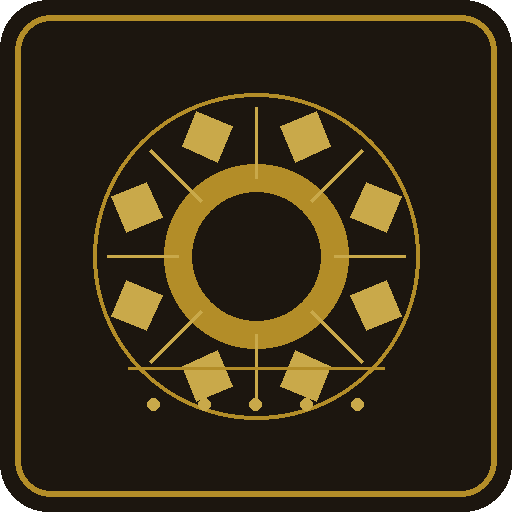
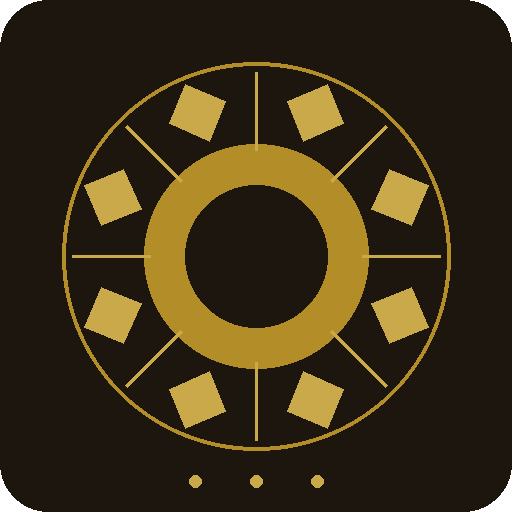
Add files via upload

diff --git a/index.html b/index.html
@@ -22,8 +22,8 @@
   --r:16px;
 }
 *{box-sizing:border-box;margin:0;padding:0;-webkit-tap-highlight-color:transparent;}
-html{font-size:16px;-webkit-text-size-adjust:100%;text-size-adjust:100%;}
-body{font-family:'Noto Sans TC',sans-serif;background:var(--paper-d);color:var(--ink);max-width:600px;margin:0 auto;font-size:16px;}
+html{font-size:14px;-webkit-text-size-adjust:100%;text-size-adjust:100%;}
+body{font-family:'Noto Sans TC',sans-serif;background:var(--paper-d);color:var(--ink);max-width:600px;margin:0 auto;font-size:14px;}
 
 .app{width:100%;background:var(--paper);}
 .page{display:none;}
@@ -38,7 +38,7 @@ body{font-family:'Noto Sans TC',sans-serif;background:var(--paper-d);color:var(-
 /* HEADER */
 .app-header{flex-shrink:0;background:var(--ink);padding:16px 18px 14px;border-bottom:3px solid var(--gold);}
 .header-row{display:flex;justify-content:space-between;align-items:center;}
-.app-title{font-family:'Noto Serif TC',serif;color:var(--gold-l);font-size:20px;letter-spacing:3px;font-weight:700;text-shadow:0.5px 0.5px 0 rgba(255,255,255,.2);}
+.app-title{font-family:'Noto Serif TC',serif;color:var(--gold-l);font-size:17px;letter-spacing:3px;font-weight:700;text-shadow:0.5px 0.5px 0 rgba(255,255,255,.2);}
 .week-chip{background:var(--gold);color:#fff;font-size:13px;font-weight:600;padding:5px 14px;border-radius:20px;letter-spacing:1px;}
 
 /* MILESTONE */
@@ -64,7 +64,7 @@ body{font-family:'Noto Sans TC',sans-serif;background:var(--paper-d);color:var(-
 .stats-title{font-family:'Noto Serif TC',serif;font-size:13px;letter-spacing:3px;color:var(--ink-l);text-align:center;margin-bottom:14px;font-weight:600;}
 .group-ring-wrap{position:relative;width:130px;height:130px;margin:0 auto;}
 .group-ring-center{position:absolute;inset:0;display:flex;flex-direction:column;align-items:center;justify-content:center;gap:3px;}
-.group-ring-pct{font-family:'Noto Serif TC',serif;font-size:32px;font-weight:700;color:var(--gold);line-height:1;transition:color .5s;}
+.group-ring-pct{font-family:'Noto Serif TC',serif;font-size:26px;font-weight:700;color:var(--gold);line-height:1;transition:color .5s;}
 .group-ring-pct.high{color:var(--green);}
 .group-ring-lbl{font-size:12px;color:var(--ink-l);letter-spacing:1px;font-weight:500;}
 
@@ -81,7 +81,7 @@ body{font-family:'Noto Sans TC',sans-serif;background:var(--paper-d);color:var(-
 .wall-quote::before{
   content:'"';
   font-family:'Noto Serif TC',serif;
-  font-size:50px;
+  font-size:40px;
   color:var(--gold-l);
   opacity:.3;
   position:absolute;
@@ -121,7 +121,7 @@ body{font-family:'Noto Sans TC',sans-serif;background:var(--paper-d);color:var(-
 .mem-wpct{font-size:13px;font-weight:700;color:var(--gold);min-width:38px;text-align:right;}
 .mem-wpct.wdone{color:var(--green);}
 .mem-right{text-align:right;min-width:80px;padding-left:12px;border-left:2px solid var(--border);}
-.mem-pct{font-family:'Noto Serif TC',serif;font-size:28px;font-weight:700;color:var(--gold);line-height:1;}
+.mem-pct{font-family:'Noto Serif TC',serif;font-size:22px;font-weight:700;color:var(--gold);line-height:1;}
 .mem-pct.high{color:var(--green);}
 .mem-plbl{font-size:12px;color:var(--ink-l);margin-top:3px;font-weight:500;}
 .mem-arr{font-size:13px;color:var(--ink-l);margin-top:3px;}
@@ -136,7 +136,7 @@ body{font-family:'Noto Sans TC',sans-serif;background:var(--paper-d);color:var(-
 .detail-nm{font-family:'Noto Serif TC',serif;font-size:20px;letter-spacing:2px;font-weight:700;}
 .detail-dh{font-size:14px;color:var(--ink-l);margin-top:3px;font-weight:500;}
 .detail-pcts{margin-left:auto;text-align:right;}
-.detail-cpct{font-family:'Noto Serif TC',serif;font-size:28px;font-weight:700;color:var(--gold);}
+.detail-cpct{font-family:'Noto Serif TC',serif;font-size:22px;font-weight:700;color:var(--gold);}
 .detail-cpct.high{color:var(--green);}
 .detail-clbl{font-size:12px;color:var(--ink-l);font-weight:500;}
 .detail-wrow{margin-top:4px;display:flex;align-items:center;gap:6px;justify-content:flex-end;}
@@ -213,7 +213,7 @@ body{font-family:'Noto Sans TC',sans-serif;background:var(--paper-d);color:var(-
 .step-btn:active{background:var(--gold-p);border-color:var(--gold);transform:scale(.94);}
 .step-btn:disabled{opacity:.2;cursor:not-allowed;}
 .step-display{flex:1;text-align:center;display:flex;flex-direction:column;align-items:center;gap:2px;}
-.step-num{font-family:'Noto Sans TC',sans-serif;font-size:52px;font-weight:700;color:var(--border);line-height:1;transition:color .2s;letter-spacing:-1px;}
+.step-num{font-family:'Noto Sans TC',sans-serif;font-size:42px;font-weight:700;color:var(--border);line-height:1;transition:color .2s;letter-spacing:-1px;}
 .step-num.has{color:var(--ink);}
 .step-num.done{color:var(--green);}
 .step-unit{font-size:13px;color:var(--ink-l);letter-spacing:1px;font-weight:600;}
@@ -264,7 +264,7 @@ body{font-family:'Noto Sans TC',sans-serif;background:var(--paper-d);color:var(-
 
 /* SUBMIT */
 .submit-wrap{padding:8px 16px 16px;flex-shrink:0;}
-.submit-btn{width:100%;border:none;border-radius:var(--r);padding:18px;font-family:'Noto Serif TC',serif;font-size:18px;letter-spacing:4px;cursor:pointer;transition:all .2s;background:#ccc;color:#fff;font-weight:700;}
+.submit-btn{width:100%;border:none;border-radius:var(--r);padding:18px;font-family:'Noto Serif TC',serif;font-size:16px;letter-spacing:4px;cursor:pointer;transition:all .2s;background:#ccc;color:#fff;font-weight:700;}
 .submit-btn:disabled{opacity:.5;cursor:not-allowed;background:#ccc;}
 .submit-btn.active{background:var(--gold);color:#fff;box-shadow:0 6px 24px rgba(196,154,46,.45);}
 .footer{text-align:center;font-size:12px;color:var(--ink-l);padding:8px 16px 12px;opacity:.7;letter-spacing:1px;}